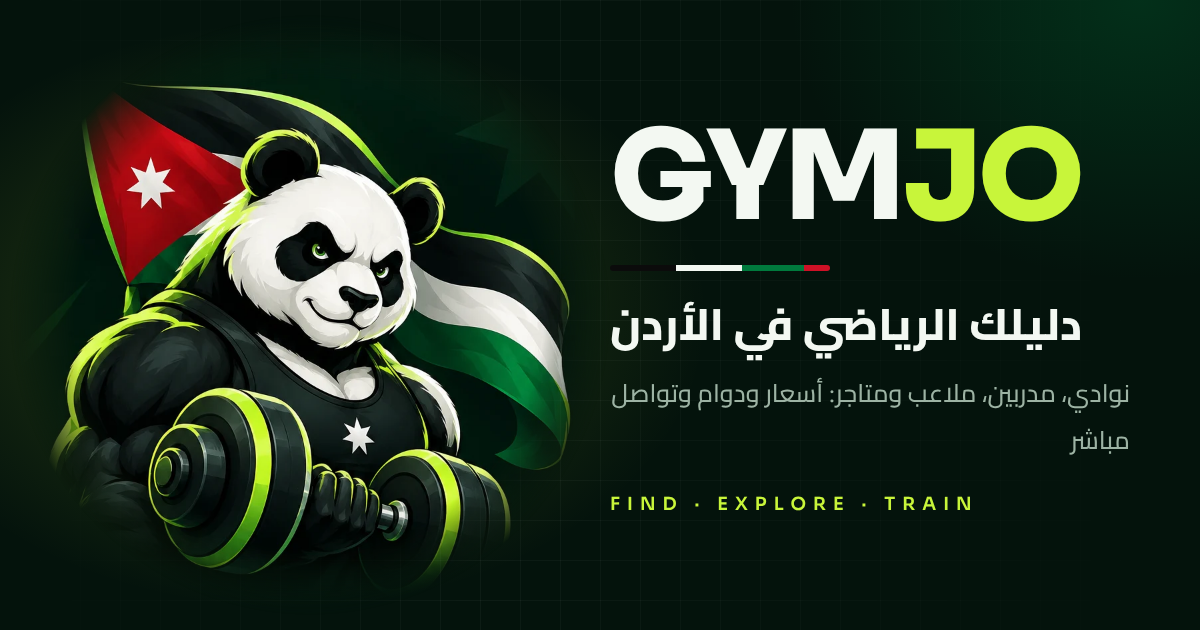
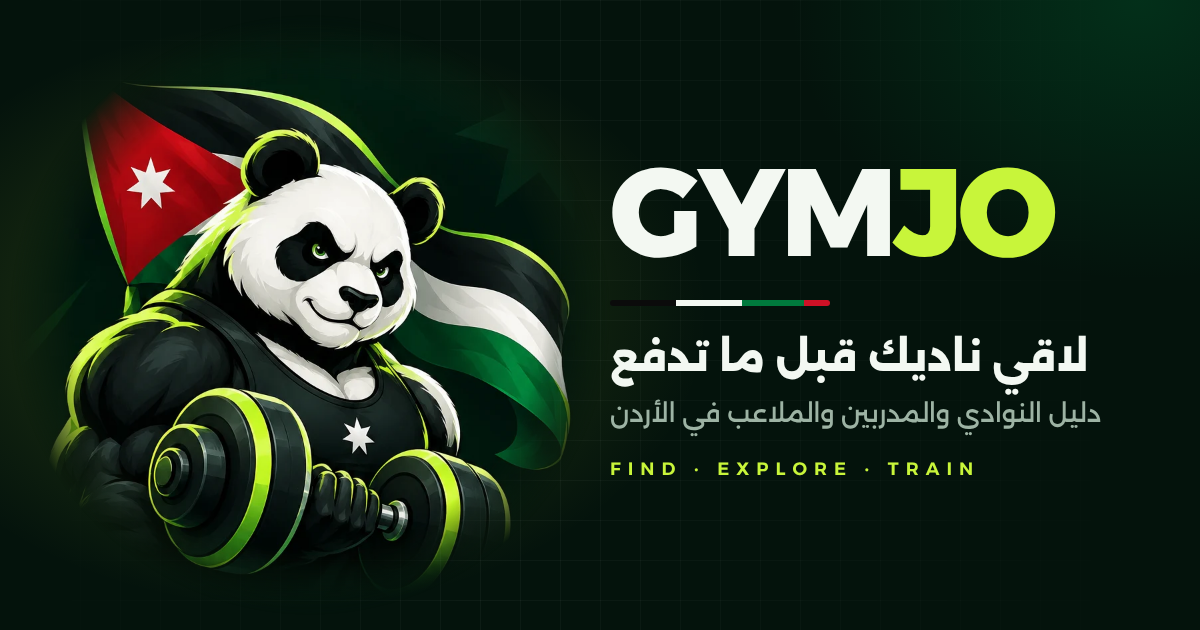
feat(design): GYMJO v2 — new home hero, navigation and type system
- Hero: the panda as the single loud element, one headline, the search as
  the page's one job, and quick links to the most used directories.
- Navigation: one quiet desktop row with the main destinations; a phone
  tab bar (home, directory, search, favourites, sections) replaces the
  17-pill cloud. Everything else stays reachable from «كل الأقسام».
- Type: Alexandria for headlines and the wordmark, Cairo for reading text.
- Removed all-caps English eyebrow labels and the old brand name everywhere.
- Share image regenerated. Includes the notifications work (merged).

Claude-Session: https://claude.ai/code/session_01CDM4rmzXy9MrwPcZ1eZi8a

diff --git a/src/app/page.tsx b/src/app/page.tsx
@@ -74,75 +74,49 @@ export default async function Home() {
   const sponsored = ads.filter((a) => a.placement === "sponsored").slice(0, 3);
   return (
     <div className="mx-auto max-w-7xl px-4 sm:px-6">
-      <section className="relative isolate -mx-4 overflow-hidden rounded-b-[2rem] border-b border-white/10 bg-[radial-gradient(ellipse_at_15%_10%,rgba(200,245,58,.15),transparent_38%),radial-gradient(ellipse_at_85%_80%,rgba(159,212,31,.09),transparent_34%)] px-4 pb-10 pt-8 sm:rounded-b-[2.75rem] sm:px-8 sm:pb-16 sm:pt-12 lg:pb-20">
-        <div aria-hidden className="pointer-events-none absolute inset-0 -z-10 opacity-40 [background-image:linear-gradient(rgba(255,255,255,.035)_1px,transparent_1px),linear-gradient(90deg,rgba(255,255,255,.035)_1px,transparent_1px)] [background-size:36px_36px] [mask-image:linear-gradient(to_bottom,black,transparent_85%)]" />
-        {/* Brand mascot as a quiet watermark behind the hero. */}
-        <div aria-hidden className="pointer-events-none absolute -top-10 end-[-5rem] -z-10 w-64 opacity-20 [mask-image:radial-gradient(closest-side,black_50%,transparent)] sm:w-80 sm:opacity-30 lg:hidden">
-          {/* eslint-disable-next-line @next/next/no-img-element */}
-          <img src="/brand/panda.webp" alt="" width={900} height={900} className="h-auto w-full" />
-        </div>
-        <div className="mx-auto grid max-w-7xl items-center gap-10 lg:grid-cols-[1.1fr_.9fr] lg:gap-14">
-          <div className="text-right">
-            <div className="mb-5 inline-flex items-center gap-2 rounded-full border border-[#c8f53a]/20 bg-[#c8f53a]/10 px-3 py-1.5 text-xs font-bold text-[#c8f53a] sm:text-sm"><span className="size-2 animate-pulse rounded-full bg-emerald-400 motion-reduce:animate-none" /> دليلك الرياضي من عمّان لكل الأردن</div>
-            <h1 className="max-w-3xl text-4xl font-black leading-[1.25] tracking-tight sm:text-5xl lg:text-6xl">
-              {cfg.heroTitle}<br /><span className="bg-gradient-to-l from-[#e9ffa3] via-[#c8f53a] to-[#9fd41f] bg-clip-text text-transparent">{cfg.heroAccent}</span>
-            </h1>
-            <p className="mt-5 max-w-2xl text-base leading-8 text-muted sm:text-lg">{cfg.heroSubtitle}</p>
-            <form action="/search" className="mt-8 grid gap-2 rounded-2xl border border-white/10 bg-surface/90 p-2 shadow-2xl shadow-black/20 backdrop-blur sm:grid-cols-[1fr_auto]">
-              <label className="flex min-w-0 items-center gap-3 rounded-xl bg-background/70 px-4">
-                <span aria-hidden className="text-xl text-[#c8f53a]">⌕</span>
-                <input name="q" aria-label="بحث" placeholder="شو حاب تتمرّن؟ نادي، مدرب، ملاعب..." className="min-w-0 flex-1 bg-transparent py-4 outline-none placeholder:text-muted/80 focus:ring-0" />
+      <section className="relative isolate -mx-4 overflow-hidden border-b border-white/10 px-4 pb-10 pt-2 sm:px-8 sm:pb-14 sm:pt-10">
+        <div className="mx-auto grid max-w-7xl items-center gap-6 lg:grid-cols-[1.15fr_.85fr] lg:gap-10">
+          {/* The mascot: the one loud element on the page. */}
+          <div aria-hidden className="relative mx-auto -mb-2 w-44 sm:w-72 lg:order-2 lg:mb-0 lg:w-full lg:max-w-md">
+            {/* eslint-disable-next-line @next/next/no-img-element */}
+            <img src="/brand/panda.webp" alt="" width={900} height={900} fetchPriority="high" className="relative h-auto w-full [mask-image:radial-gradient(closest-side,black_80%,transparent)]" />
+          </div>
+          <div className="lg:order-1">
+            <h1 className="font-display text-[2.6rem] font-black leading-[1.15] tracking-tight sm:text-6xl lg:text-7xl">لاقي ناديك<br />قبل ما تدفع</h1>
+            <p className="mt-4 max-w-xl text-base leading-8 text-muted sm:text-lg">الأسعار والدوام والصور لنوادي ومدربين وملاعب الأردن، وزر واتساب بيوصلك لصاحب المكان مباشرة.</p>
+            <form action="/search" className="mt-6 flex flex-col gap-2 rounded-3xl bg-surface p-2 ring-1 ring-white/10 sm:flex-row sm:items-center sm:rounded-full sm:ps-6">
+              <label className="flex min-w-0 flex-1 items-center gap-3 px-3 sm:px-0">
+                <svg aria-hidden viewBox="0 0 24 24" className="size-5 shrink-0 text-accent" fill="none" stroke="currentColor" strokeWidth="2.2" strokeLinecap="round"><circle cx="11" cy="11" r="7" /><path d="m20 20-3.5-3.5" /></svg>
+                <input name="q" aria-label="بحث" placeholder="اسم نادي، منطقة، أو رياضة" className="min-w-0 flex-1 bg-transparent py-3.5 outline-none placeholder:text-muted/80 focus:ring-0" />
               </label>
-              <div className="grid grid-cols-[1fr_auto] gap-2">
-                <select name="city" aria-label="المدينة" defaultValue="" className="min-w-0 rounded-xl bg-background px-3 py-3 text-sm ring-1 ring-white/10 focus:ring-[#c8f53a]">
+              <div className="flex gap-2">
+                <select name="city" aria-label="المدينة" defaultValue="" className="min-h-12 min-w-0 flex-1 rounded-full bg-background px-4 text-sm ring-1 ring-white/10 focus:ring-accent sm:flex-none">
                   <option value="">كل المدن</option>
                   {cities.map((c) => <option key={c.city} value={c.city}>{c.city}</option>)}
                 </select>
-                <button className="rounded-xl bg-[#c8f53a] text-[#0b1a08] px-6 py-3 font-extrabold shadow-lg shadow-black/30 transition hover:-translate-y-0.5 hover:brightness-110">اكتشف الآن <span aria-hidden>←</span></button>
+                <button className="min-h-12 rounded-full bg-accent px-7 font-display font-extrabold text-accent-foreground transition hover:brightness-110 focus-visible:outline-none focus-visible:ring-2 focus-visible:ring-accent focus-visible:ring-offset-2 focus-visible:ring-offset-background">دوّر</button>
               </div>
             </form>
-            <div className="mt-4 flex flex-wrap items-center gap-x-4 gap-y-2 text-xs text-muted sm:text-sm"><span className="inline-flex items-center gap-2"><span className="text-emerald-300">✓</span> قارن قبل ما تشترك</span><span className="inline-flex items-center gap-2"><span className="text-emerald-300">✓</span> معلومات محلية</span><span className="inline-flex items-center gap-2"><span className="text-emerald-300">✓</span> تواصل مباشر</span></div>
-          </div>
-          <div className="relative mx-auto w-full max-w-lg lg:me-0">
-            <div aria-hidden className="absolute inset-8 rounded-full bg-[#c8f53a]/10 blur-3xl" />
-            <div className="relative overflow-hidden rounded-[2rem] border border-white/10 bg-gradient-to-br from-[#252c20] via-[#1b2119] to-[#10130f] p-4 shadow-2xl shadow-black/40 sm:p-6">
-              <div className="flex items-center justify-between border-b border-white/10 pb-4">
-                <div><p className="text-xs text-muted">رحلتك الرياضية تبدأ هون</p><p className="mt-1 text-lg font-extrabold">اختار أسلوبك</p></div>
-                <span className="rounded-2xl border border-[#c8f53a]/20 bg-[#c8f53a]/10 p-3 text-2xl">✦</span>
-              </div>
-              <div className="mt-4 grid grid-cols-2 gap-3">
-                {TYPE_TILES.slice(0, 4).map((tile) => (
-                  <Link key={tile.href} href={tile.href} className="group rounded-2xl border border-white/10 bg-white/[0.04] p-4 transition hover:-translate-y-1 hover:border-[#c8f53a]/40 hover:bg-[#c8f53a]/10">
-                    <span className="mb-5 flex size-11 items-center justify-center rounded-xl bg-[#c8f53a]/10 text-2xl">{tile.icon}</span>
-                    <span className="block font-extrabold">{tile.label}</span>
-                    <span className="mt-1 block text-xs text-muted">{tile.description}</span>
-                  </Link>
-                ))}
-              </div>
-              <Link href="/search" className="mt-3 flex items-center justify-between rounded-2xl border border-[#c8f53a]/20 bg-[#c8f53a]/10 px-4 py-3 text-sm font-bold text-[#c8f53a] transition hover:bg-[#c8f53a]/15"><span>استكشف كل الأنشطة الرياضية</span><span aria-hidden>←</span></Link>
-              <div className="mt-4 flex items-center gap-3 rounded-2xl bg-black/20 p-3"><span className="flex size-10 shrink-0 items-center justify-center rounded-full bg-emerald-400/15 text-lg">⌖</span><div><p className="text-sm font-bold">منطقتك، ميزانيتك، هدفك</p><p className="mt-0.5 text-xs text-muted">اكتشف خيارات أقرب لإلك بدل البحث العشوائي</p></div></div>
-            </div>
-            <div aria-hidden className="pointer-events-none absolute -top-24 end-[-3rem] hidden w-44 lg:block xl:w-52">
-              <div className="brand-glow absolute inset-0 scale-125" />
-              {/* eslint-disable-next-line @next/next/no-img-element */}
-              <img src="/brand/panda.webp" alt="" width={900} height={900} className="relative h-auto w-full [mask-image:radial-gradient(closest-side,black_72%,transparent)]" />
-            </div>
-            <div className="absolute -left-2 top-10 hidden -translate-x-1/4 rounded-2xl border border-white/10 bg-surface/95 px-4 py-3 shadow-xl backdrop-blur sm:block lg:top-auto lg:bottom-10"><p className="text-xs text-muted">قرار أذكى</p><p className="mt-1 text-sm font-extrabold">قارن. اختار. انطلق.</p></div>
+            <ul className="mt-4 flex flex-wrap gap-2 text-sm">
+              {[["/directory/gym", "نوادي"], ["/directory/independent_coach", "مدربين"], ["/directory/sports_facility", "ملاعب ومسابح"], ["/pink", "للنساء"], ["/now", "فاتح هسا"]].map(([href, label]) => (
+                <li key={href}><Link href={href} className="inline-flex min-h-10 items-center rounded-full px-4 font-bold text-muted ring-1 ring-white/10 transition-colors hover:text-foreground hover:ring-accent">{label}</Link></li>
+              ))}
+            </ul>
           </div>
         </div>
         {show.tiles && (
-          <section className="mx-auto mt-10 max-w-7xl border-t border-white/10 pt-7 sm:mt-14">
+          <section className="mx-auto mt-10 max-w-7xl sm:mt-14">
             <div className="mb-5 flex flex-wrap items-end justify-between gap-3">
-              <div><p className="text-xs font-extrabold tracking-wider text-accent">GYMJO DIRECTORY</p><h2 className="mt-1 text-xl font-black sm:text-2xl">دليل الأنشطة الرياضية</h2><p className="mt-1 text-sm text-muted">اختار نوع النشاط اللي بتدور عليه.</p></div>
-              <Link href="/directory" className="text-sm font-bold text-accent">كل الدليل ←</Link>
+              <div><h2 className="mt-1 text-xl font-black sm:text-2xl">دليل الأنشطة الرياضية</h2><p className="mt-1 text-sm text-muted">اختار نوع النشاط اللي بتدور عليه.</p></div>
+              <Link href="/directory" className="text-sm font-bold text-accent">كل الدليل</Link>
             </div>
             <div className="grid grid-cols-2 gap-3 sm:grid-cols-4 lg:grid-cols-8">
               {TYPE_TILES.map((tile) => (
-                <Link key={tile.href} href={tile.href} className="group flex min-h-32 flex-col rounded-2xl border border-white/10 bg-surface/80 p-3 transition hover:-translate-y-1 hover:border-accent/50 hover:bg-accent/5 sm:p-4">
+                <Link key={tile.href} href={tile.href} className="flex flex-col rounded-2xl bg-surface p-3 ring-1 ring-white/10 transition-colors hover:ring-accent sm:p-4">
                   <span className="flex size-10 items-center justify-center rounded-xl bg-accent/10 text-xl">{tile.icon}</span>
                   <span className="mt-3 font-extrabold">{tile.label}</span>
                   <span className="mt-1 text-xs leading-5 text-muted">{tile.description}</span>
-                  <span className="mt-auto pt-3 text-xs font-bold text-accent">استكشف ←</span>
+                  
                 </Link>
               ))}
             </div>
@@ -152,7 +126,7 @@ export default async function Home() {
 
       <section className="py-12 sm:py-16">
         <div className="mb-6 flex flex-wrap items-end justify-between gap-3">
-          <div><p className="text-xs font-extrabold tracking-wider text-accent">MORE THAN A DIRECTORY</p><h2 className="mt-1 text-2xl font-black sm:text-3xl">كل ميزات GYMJO قدامك</h2><p className="mt-2 max-w-2xl text-sm leading-6 text-muted">مش بس دليل نوادي؛ أدوات ومحتوى وعروض تساعدك تتمرّن وتتابع تقدمك وتكتشف أشياء جديدة — كل قسم ظاهر هون بدون قوائم مخفية.</p></div>
+          <div><h2 className="mt-1 text-2xl font-black sm:text-3xl">كل ميزات GYMJO قدامك</h2><p className="mt-2 max-w-2xl text-sm leading-6 text-muted">مش بس دليل نوادي؛ أدوات ومحتوى وعروض تساعدك تتمرّن وتتابع تقدمك وتكتشف أشياء جديدة — كل قسم ظاهر هون بدون قوائم مخفية.</p></div>
           <span className="rounded-full border border-white/10 bg-surface px-3 py-1.5 text-xs font-bold text-muted">{FEATURE_TILES.length} ميزة</span>
         </div>
         <div className="grid grid-cols-2 gap-3 sm:grid-cols-3 lg:grid-cols-4">
@@ -172,7 +146,7 @@ export default async function Home() {
       {exercises.length > 0 && (
         <section className="mb-12">
           <div className="mb-4 flex flex-wrap items-end justify-between gap-3">
-            <div><p className="text-xs font-extrabold tracking-wider text-accent">LEARN & TRAIN</p><h2 className="mt-1 text-2xl font-black">جرّب مكتبة التمارين</h2><p className="mt-1 text-sm text-muted">شوف أسماء التمارين والعضلات المستهدفة قبل ما تدخل للقسم.</p></div>
+            <div><h2 className="mt-1 text-2xl font-black">جرّب مكتبة التمارين</h2><p className="mt-1 text-sm text-muted">شوف أسماء التمارين والعضلات المستهدفة قبل ما تدخل للقسم.</p></div>
             <Link href="/exercises" className="text-sm font-bold text-accent">كل التمارين ←</Link>
           </div>
           <div className="grid grid-cols-2 gap-3 sm:grid-cols-4">
@@ -190,7 +164,7 @@ export default async function Home() {
       {codes.length > 0 && (
         <section className="mb-12 rounded-3xl border border-[#c8f53a]/20 bg-gradient-to-l from-[#c8f53a]/[0.08] to-surface p-5 sm:p-7">
           <div className="mb-5 flex flex-wrap items-end justify-between gap-3">
-            <div><p className="text-xs font-extrabold tracking-wider text-accent">GYMJO EXCLUSIVE</p><h2 className="mt-1 text-2xl font-black">وفّر مع أكواد GYMJO</h2><p className="mt-1 text-sm text-muted">خصومات حقيقية من أنشطة ومتاجر مشاركة — اكشف الكود واستخدمه مباشرة.</p></div>
+            <div><h2 className="mt-1 text-2xl font-black">وفّر مع أكواد GYMJO</h2><p className="mt-1 text-sm text-muted">خصومات حقيقية من أنشطة ومتاجر مشاركة — اكشف الكود واستخدمه مباشرة.</p></div>
             <Link href="/deals" className="text-sm font-bold text-accent">كل أكواد الخصم ←</Link>
           </div>
           <div className="grid gap-3 sm:grid-cols-3">

diff --git a/src/components/SiteTabs.tsx b/src/components/SiteTabs.tsx
@@ -4,16 +4,16 @@ import { usePathname } from "next/navigation";
 
 export type NavLink = { href: string; label: string; cls?: string };
 
-/** Accessible, touch-friendly section navigation with a clear current-page state. */
-export function SiteTabs({ links }: { links: NavLink[] }) {
+function useIsOn() {
   const path = usePathname();
-  const on = (h: string) => path === h || (h !== "/" && path.startsWith(h + "/"));
+  return (h: string) => (h === "/" ? path === "/" : path === h || path.startsWith(h + "/"));
+}
 
+/** Desktop: one quiet row of the main destinations. Everything else lives in «كل الأقسام». */
+export function SiteTabs({ links }: { links: NavLink[] }) {
+  const on = useIsOn();
   return (
-    <nav
-      aria-label="أقسام الموقع"
-      className="mx-auto flex max-w-7xl snap-x snap-mandatory gap-2 overflow-x-auto px-3 pb-3 text-sm [scrollbar-width:none] [-webkit-overflow-scrolling:touch] [&::-webkit-scrollbar]:hidden sm:px-4 md:flex-wrap md:overflow-visible md:snap-none"
-    >
+    <nav aria-label="أقسام الموقع" className="hidden items-center gap-1 text-sm md:flex">
       {links.map((l) => {
         const active = on(l.href);
         return (
@@ -22,12 +22,9 @@ export function SiteTabs({ links }: { links: NavLink[] }) {
             href={l.href}
             aria-current={active ? "page" : undefined}
             className={[
-              "min-h-11 shrink-0 snap-start whitespace-nowrap rounded-full px-4 py-2.5 font-medium",
-              "inline-flex items-center justify-center ring-1 transition-colors duration-200 motion-reduce:transition-none",
-              "focus-visible:outline-none focus-visible:ring-2 focus-visible:ring-accent focus-visible:ring-offset-2 focus-visible:ring-offset-background",
-              active
-                ? "bg-accent font-bold text-accent-foreground ring-accent shadow-sm shadow-black/10"
-                : "bg-surface text-muted ring-white/10 hover:text-foreground hover:ring-accent active:scale-[0.98] motion-reduce:active:scale-100",
+              "inline-flex min-h-10 items-center whitespace-nowrap rounded-full px-3.5 font-bold transition-colors motion-reduce:transition-none",
+              "focus-visible:outline-none focus-visible:ring-2 focus-visible:ring-accent",
+              active ? "bg-accent/15 text-accent" : "text-muted hover:bg-white/5 hover:text-foreground",
               l.cls ?? "",
             ].join(" ")}
           >
@@ -35,6 +32,47 @@ export function SiteTabs({ links }: { links: NavLink[] }) {
           </Link>
         );
       })}
+    </nav>
+  );
+}
+
+const ICONS: Record<string, React.ReactNode> = {
+  home: <path d="M3 11.5 12 4l9 7.5M5.5 10v9.5h13V10" />,
+  list: <path d="M4 6h16M4 12h16M4 18h10" />,
+  search: <><circle cx="11" cy="11" r="6.5" /><path d="m20 20-4-4" /></>,
+  heart: <path d="M12 20s-7.5-4.6-7.5-10.2A4.3 4.3 0 0 1 12 7a4.3 4.3 0 0 1 7.5 2.8C19.500 15.4 12 20 12 20Z" />,
+  grid: <><rect x="4" y="4" width="6.5" height="6.5" rx="1.5" /><rect x="13.5" y="4" width="6.5" height="6.5" rx="1.5" /><rect x="4" y="13.5" width="6.5" height="6.5" rx="1.5" /><rect x="13.5" y="13.5" width="6.5" height="6.5" rx="1.5" /></>,
+};
+const BAR = [
+  { href: "/", label: "الرئيسية", icon: "home" },
+  { href: "/directory", label: "الدليل", icon: "list" },
+  { href: "/search", label: "بحث", icon: "search" },
+  { href: "/favorites", label: "المفضلة", icon: "heart" },
+  { href: "/sections", label: "الأقسام", icon: "grid" },
+];
+
+/** Phones: a thumb-reach tab bar with the five places people go most. */
+export function BottomBar() {
+  const on = useIsOn();
+  return (
+    <nav aria-label="التنقل السريع" className="fixed inset-x-0 bottom-0 z-40 border-t border-white/10 bg-background/95 pb-[env(safe-area-inset-bottom)] backdrop-blur-xl print:hidden md:hidden">
+      <ul className="mx-auto grid max-w-md grid-cols-5">
+        {BAR.map((b) => {
+          const active = on(b.href);
+          const main = b.icon === "search";
+          return (
+            <li key={b.href}>
+              <Link href={b.href} aria-current={active ? "page" : undefined} className={`flex min-h-16 flex-col items-center justify-center gap-1 text-[11px] font-bold transition-colors focus-visible:outline-none focus-visible:ring-2 focus-visible:ring-inset focus-visible:ring-accent ${active ? "text-accent" : "text-muted"}`}>
+                <span className={main ? "flex size-10 items-center justify-center rounded-full bg-accent text-accent-foreground" : ""}>
+                  <svg aria-hidden viewBox="0 0 24 24" className={main ? "size-5" : "size-6"} fill="none" stroke="currentColor" strokeWidth={active || main ? 2.2 : 1.8} strokeLinecap="round" strokeLinejoin="round">{ICONS[b.icon]}</svg>
+                </span>
+                {!main && b.label}
+                {main && <span className="sr-only">{b.label}</span>}
+              </Link>
+            </li>
+          );
+        })}
+      </ul>
     </nav>
   );
 }

diff --git a/src/components/SiteHeader.tsx b/src/components/SiteHeader.tsx
@@ -6,12 +6,13 @@ import { SiteTabs, type NavLink } from "@/components/SiteTabs";
 import { NAV_CATALOG } from "@/lib/site-settings";
 
 export async function SiteHeader() {
-  // Keep every main service directly visible in the navigation; /sections remains the full directory.
-  const tabs: NavLink[] = [...NAV_CATALOG.map((n) => ({ ...n })), { href: "/sections", label: "☰ كل الأقسام" }];
+  // The header carries the destinations people use most; «كل الأقسام» holds the rest.
+  const MAIN = ["/search", "/pink", "/now", "/deals", "/exercises"];
+  const tabs: NavLink[] = [{ href: "/directory", label: "الدليل" }, ...NAV_CATALOG.filter((n) => MAIN.includes(n.href)).map((n) => ({ href: n.href, label: n.label.replace(/^[^\p{L}]+/u, "").trim() })), { href: "/sections", label: "كل الأقسام" }];
 
   return (
-    <header className="sticky top-0 z-40 border-b border-white/10 bg-background/90 shadow-lg shadow-black/5 backdrop-blur-xl print:hidden">
-      <div className="mx-auto flex max-w-7xl flex-wrap items-center justify-between gap-3 px-3 py-3 sm:px-5 sm:py-3.5">
+    <header className="sticky top-0 z-40 border-b border-white/10 bg-background/90 backdrop-blur-xl print:hidden">
+      <div className="mx-auto flex max-w-7xl items-center justify-between gap-3 px-3 py-2.5 sm:px-5">
         <Link
           href="/"
           aria-label="GYMJO — الصفحة الرئيسية"
@@ -21,16 +22,15 @@ export async function SiteHeader() {
           <img src="/brand/mark-96.png" alt="" width={44} height={44} className="size-10 shrink-0 rounded-2xl object-cover ring-1 ring-accent/40 shadow-lg shadow-black/40 transition-transform duration-300 group-hover:scale-105 motion-reduce:transition-none motion-reduce:transform-none sm:size-11" />
           <span className="flex min-w-0 flex-col items-start gap-1">
             <span className="wordmark text-xl sm:text-2xl">GYM<b>JO</b></span>
-            <span className="hidden text-[11px] font-semibold leading-none text-muted sm:block">دليلك الرياضي في الأردن</span>
           </span>
         </Link>
+        <SiteTabs links={tabs} />
         <div className="flex shrink-0 items-center gap-1.5 text-sm sm:gap-2">
-          <ThemeToggle />
+          <span className="hidden sm:inline-flex"><ThemeToggle /></span>
           <HeaderAuth />
           <InstallButton />
         </div>
       </div>
-      <SiteTabs links={tabs} />
     </header>
   );
 }

diff --git a/src/app/globals.css b/src/app/globals.css
@@ -24,8 +24,8 @@
   --color-muted: var(--muted);
   --color-accent: var(--accent);
   --color-accent-foreground: var(--accent-foreground);
-  --font-sans: "Sora Variable", "Cairo Variable", system-ui, sans-serif;
-  --font-display: "Sora Variable", "Cairo Variable", system-ui, sans-serif;
+  --font-sans: "Cairo Variable", "Alexandria Variable", system-ui, sans-serif;
+  --font-display: "Alexandria Variable", system-ui, sans-serif;
 }
 
 html { color-scheme: dark; scroll-behavior: smooth; }
@@ -67,12 +67,13 @@ html[data-theme="light"] .text-emerald-300, html[data-theme="light"] .text-emera
 html[data-theme="light"] .text-amber-300, html[data-theme="light"] .text-amber-200 { color: #93370d !important; }
 
 html, body { overflow-x: clip; }
-/* Latin letters and numerals in Sora, Arabic in Cairo: one voice in both scripts. */
-body { background: var(--background); color: var(--foreground); font-family: "Sora Variable", "Cairo Variable", system-ui, sans-serif; font-feature-settings: "ss01"; }
+body { background: var(--background); color: var(--foreground); font-family: "Cairo Variable", "Alexandria Variable", system-ui, sans-serif; }
+/* Headlines in Alexandria (Arabic and Latin), reading text in Cairo. */
+h1, h2 { font-family: "Alexandria Variable", "Cairo Variable", system-ui, sans-serif; letter-spacing: -0.01em; }
 h1, h2, h3 { text-wrap: balance; }
 
 /* Brand pieces */
-.wordmark { font-family: "Sora Variable", system-ui, sans-serif; font-weight: 800; letter-spacing: -0.02em; line-height: 1; direction: ltr; unicode-bidi: isolate; }
+.wordmark { font-family: "Alexandria Variable", system-ui, sans-serif; font-weight: 800; letter-spacing: -0.02em; line-height: 1; direction: ltr; unicode-bidi: isolate; }
 .wordmark b { font-weight: 800; color: var(--brand-lime); }
 /* The flag stripe: a thin Jordan-flag rule used once per surface as the brand signature. */
 .flag-rule { height: 3px; border-radius: 3px; background: linear-gradient(90deg, #0b0b0b 0 30%, #f3f8f2 30% 60%, var(--flag-green) 60% 88%, var(--flag-red) 88% 100%); }
@@ -124,3 +125,5 @@ h1, h2, h3 { text-wrap: balance; }
   .printing-one [data-print-active] * { color: #000 !important; }
   .printing-one .no-print { display: none !important; }
 }
+/* Room for the phone tab bar. */
+@media (max-width: 767px) { body { padding-bottom: calc(4.25rem + env(safe-area-inset-bottom)); } }

diff --git a/src/app/account/page.tsx b/src/app/account/page.tsx
@@ -47,7 +47,6 @@ export default async function Account() {
     <main className="mx-auto max-w-5xl px-4 py-7 sm:px-6 sm:py-10">
       <section className="relative isolate overflow-hidden rounded-[2rem] border border-white/10 bg-[radial-gradient(ellipse_at_15%_10%,rgba(200,245,58,.18),transparent_45%),linear-gradient(135deg,#20291b,#11160f)] p-5 shadow-2xl shadow-black/20 sm:p-8">
         <div aria-hidden className="absolute -end-12 -top-16 -z-10 size-56 rounded-full border-[32px] border-[#c8f53a]/5" />
-        <p className="text-xs font-black tracking-[.2em] text-[#c8f53a]">GYMJO MEMBER SPACE</p>
         <div className="mt-5 flex flex-col gap-5 sm:flex-row sm:items-center">
           <div className="flex size-20 shrink-0 items-center justify-center rounded-[1.7rem] border border-[#c8f53a]/30 bg-[#c8f53a]/15 text-4xl font-black text-[#eaff8c] shadow-lg shadow-black/20">{initial}</div>
           <div className="min-w-0 flex-1">
@@ -73,7 +72,7 @@ export default async function Account() {
 
       <section className="mt-9">
         <div className="mb-4 flex items-end justify-between gap-3">
-          <div><p className="text-xs font-black tracking-widest text-accent">YOUR GYMJO</p><h2 className="mt-1 text-2xl font-black">مساحتك الرياضية</h2><p className="mt-1 text-sm text-muted">كل ما تحتاجه لمتابعة رحلتك الرياضية بمكان واحد.</p></div>
+          <div><h2 className="mt-1 text-2xl font-black">مساحتك الرياضية</h2><p className="mt-1 text-sm text-muted">كل ما تحتاجه لمتابعة رحلتك الرياضية بمكان واحد.</p></div>
           <Link href="/sections" className="text-sm font-bold text-accent">كل الأقسام ←</Link>
         </div>
         <div className="grid gap-3 sm:grid-cols-2 lg:grid-cols-3">

diff --git a/src/components/VideoCard.tsx b/src/components/VideoCard.tsx
@@ -58,7 +58,7 @@ export function VideoCard({ v, showOrg = true }: { v: VideoItem; showOrg?: boole
       {v.title_ar && <p className="text-sm font-semibold">{v.title_ar}</p>}
       {showOrg && v.org && <p className="text-xs text-muted"><a href={`/g/${v.org.slug}`} className="rounded-sm text-accent hover:underline focus-visible:outline-none focus-visible:ring-2 focus-visible:ring-accent">{v.org.name_ar}</a> · {v.org.city}</p>}
       <div className="flex flex-wrap items-center gap-2">
-        {wa && v.org && <TrackedLink orgId={v.org.id} event="whatsapp_click" external href={`https://wa.me/${wa}?text=${encodeURIComponent("مرحبا، شفت فيديو لكم على Jordan Gym Reviews")}`} className="inline-flex min-h-11 items-center rounded-lg bg-green-600 px-3 py-2 text-xs font-bold text-white focus-visible:outline-none focus-visible:ring-2 focus-visible:ring-accent">واتساب</TrackedLink>}
+        {wa && v.org && <TrackedLink orgId={v.org.id} event="whatsapp_click" external href={`https://wa.me/${wa}?text=${encodeURIComponent("مرحبا، شفت فيديو لكم على GYMJO")}`} className="inline-flex min-h-11 items-center rounded-lg bg-green-600 px-3 py-2 text-xs font-bold text-white focus-visible:outline-none focus-visible:ring-2 focus-visible:ring-accent">واتساب</TrackedLink>}
         <a href={v.url} target="_blank" rel="noopener noreferrer" className="inline-flex min-h-11 items-center rounded-lg bg-white/10 px-3 py-2 text-xs hover:bg-white/20 focus-visible:outline-none focus-visible:ring-2 focus-visible:ring-accent">افتح الفيديو ↗</a>
         <Report id={v.id} />
       </div>

diff --git a/src/components/QuranAudio.tsx b/src/components/QuranAudio.tsx
@@ -132,7 +132,7 @@ export function QuranAudioProvider({ children }: { children: ReactNode }) {
     const a = s.ayahs[s.idx];
     if (!a) return;
     const rec = RECITERS.find((r) => r.id === s.reciter)?.name ?? "";
-    navigator.mediaSession.metadata = new MediaMetadata({ title: `${nameIn(surahsRef.current, s.surah)} — آية ${a.numberInSurah}`, artist: rec, album: "Jordan Gym Reviews — روح وجسد", artwork: [{ src: "/logo-mark.png", sizes: "512x512", type: "image/png" }] });
+    navigator.mediaSession.metadata = new MediaMetadata({ title: `${nameIn(surahsRef.current, s.surah)} — آية ${a.numberInSurah}`, artist: rec, album: "GYMJO — روح وجسد", artwork: [{ src: "/logo-mark.png", sizes: "512x512", type: "image/png" }] });
   };
 
   const playAt = (i: number) => {
@@ -241,7 +241,7 @@ export function QuranMiniBar() {
   return (
     <>
       <div className="h-20 print:hidden" aria-hidden />
-      <div className="fixed inset-x-0 bottom-0 z-50 border-t border-white/10 bg-surface/95 px-4 py-2 backdrop-blur print:hidden">
+      <div className="fixed inset-x-0 bottom-[calc(4rem+env(safe-area-inset-bottom))] z-30 border-t md:bottom-0 md:z-50 border-white/10 bg-surface/95 px-4 py-2 backdrop-blur print:hidden">
         <div className="mx-auto flex max-w-2xl items-center gap-3">
           <Link href="/rooh-w-jasad" className="min-w-0 flex-1 text-sm">
             <span className="block truncate font-bold">🎧 {nameOf(curSurah)}{a ? ` — آية ${ar(a.numberInSurah)}` : ""}</span>

diff --git a/src/app/sponsors/page.tsx b/src/app/sponsors/page.tsx
@@ -6,7 +6,7 @@ import { submitSponsorLead } from "./actions";
 
 export const revalidate = 600;
 export const metadata: Metadata = {
-  title: "ملف الرعاة — أعلن مع Jordan Gym Reviews",
+  title: "ملف الرعاة — أعلن مع GYMJO",
   description: "وصّل علامتك لمحبي الرياضة في الأردن: أرقام المنصة الحية وأماكن الإعلان والرعاية.",
   alternates: { canonical: "/sponsors" },
 };
@@ -32,7 +32,7 @@ export default async function Sponsors() {
     <div className="mx-auto max-w-3xl space-y-8 px-4 py-8">
       <header>
         <h1 className="text-3xl font-extrabold">🤝 ملف الرعاة</h1>
-        <p className="mt-2 text-muted">Jordan Gym Reviews دليل عربي للأندية والمدربين والملاعب والمتاجر الرياضية بالأردن. جمهورنا ناس بدهم يشتركوا ويشتروا ويتدرّبوا، وإنت بتوصلهم بنفس لحظة القرار.</p>
+        <p className="mt-2 text-muted">GYMJO دليل عربي للأندية والمدربين والملاعب والمتاجر الرياضية بالأردن. جمهورنا ناس بدهم يشتركوا ويشتروا ويتدرّبوا، وإنت بتوصلهم بنفس لحظة القرار.</p>
       </header>
       <section>
         <h2 className="mb-3 text-xl font-bold">أرقام المنصة (حيّة)</h2>

diff --git a/src/app/terms/page.tsx b/src/app/terms/page.tsx
@@ -7,7 +7,7 @@ export default function Terms() {
   return (
     <LegalPage title="شروط الاستخدام" updated="18 تشرين الأول 2026">
       <section><h2>عن المنصة</h2>
-        <p>Jordan Gym Reviews دليل يعرض صفحات للنوادي الرياضية والمدربين المستقلين والمنشآت الرياضية والمتاجر الرياضية وأخصائيي التغذية في الأردن: الأسعار، أوقات الدوام، الصور، الموقع، العروض، وطرق التواصل. المنصة وسيط لعرض المعلومات فقط، وليست طرفاً في أي اتفاق أو دفعة أو اشتراك بين الزائر والنشاط.</p></section>
+        <p>GYMJO دليل يعرض صفحات للنوادي الرياضية والمدربين المستقلين والمنشآت الرياضية والمتاجر الرياضية وأخصائيي التغذية في الأردن: الأسعار، أوقات الدوام، الصور، الموقع، العروض، وطرق التواصل. المنصة وسيط لعرض المعلومات فقط، وليست طرفاً في أي اتفاق أو دفعة أو اشتراك بين الزائر والنشاط.</p></section>
       <section><h2>لزوار الموقع</h2>
         <ul>
           <li>الزيارة وتصفح الصفحات مجانية ولا تحتاج حساب.</li>

diff --git a/src/app/directory/page.tsx b/src/app/directory/page.tsx
@@ -28,7 +28,6 @@ export default async function DirectoryIndex() {
     <main className="mx-auto max-w-7xl px-4 py-6 sm:px-6 sm:py-10">
       <header className="relative isolate overflow-hidden rounded-3xl border border-white/10 bg-[radial-gradient(ellipse_at_10%_0%,rgba(200,245,58,.13),transparent_48%),linear-gradient(135deg,var(--surface),var(--background))] p-5 sm:p-8">
         <div className="relative">
-          <p className="mb-2 text-sm font-bold text-accent">GYMJO DIRECTORY</p>
           <h1 className="text-2xl font-black tracking-tight sm:text-4xl">دليل الرياضة في الأردن</h1>
           <p className="mt-2 max-w-2xl text-sm leading-7 text-muted sm:text-base">كل الخيارات الرياضية بمكان واحد. اختار نوع النشاط، وبعدها مدينتك لتوصل للمكان المناسب إلك.</p>
           <Link href="/search" className="mt-5 inline-flex min-h-11 items-center justify-center gap-2 rounded-xl bg-accent px-5 py-2.5 text-sm font-extrabold text-accent-foreground transition hover:brightness-105 focus-visible:outline-none focus-visible:ring-2 focus-visible:ring-accent focus-visible:ring-offset-2">ابحث بكل الأنشطة <span aria-hidden>←</span></Link>

diff --git a/src/app/market/page.tsx b/src/app/market/page.tsx
@@ -58,7 +58,7 @@ export default async function Market({ searchParams }: PageProps<"/market">) {
                 {l.description_ar && <p className="text-sm text-muted">{l.description_ar}</p>}
                 {o && <p className="text-xs text-muted"><Link href={`/g/${o.slug}`} className="text-accent hover:underline">{o.name_ar}</Link> · {o.city}</p>}
                 <div className="mt-auto flex items-center justify-between gap-2 pt-2">
-                  {wa && <a href={`https://wa.me/${wa}?text=${encodeURIComponent(`مرحبا، شفت إعلانك «${l.title_ar}» بسوق المعدات على Jordan Gym Reviews`)}`} target="_blank" rel="noopener noreferrer" className="rounded-xl bg-green-600 px-4 py-2 text-sm font-bold text-white">واتساب</a>}
+                  {wa && <a href={`https://wa.me/${wa}?text=${encodeURIComponent(`مرحبا، شفت إعلانك «${l.title_ar}» بسوق المعدات على GYMJO`)}`} target="_blank" rel="noopener noreferrer" className="rounded-xl bg-green-600 px-4 py-2 text-sm font-bold text-white">واتساب</a>}
                   <ReportListing id={l.id} />
                 </div>
               </div>

diff --git a/src/components/NutritionCalc.tsx b/src/components/NutritionCalc.tsx
@@ -15,7 +15,7 @@ function Report({ r, sex, goal, f, activity, innerRef }: { r: CalcOk; sex: Sex; 
       <div style={{ display: "flex", alignItems: "center", gap: 14, borderBottom: "3px solid #10b981", paddingBottom: 16 }}>
         {/* eslint-disable-next-line @next/next/no-img-element */}
         <img src="/logo-mark.png" alt="" width={64} height={64} style={{ borderRadius: 32, objectFit: "cover" }} />
-        <div><div style={{ fontSize: 24, fontWeight: 900 }}>Jordan Gym Reviews</div><div style={{ fontSize: 13, color: "#5b6b66" }}>من غير حرمان — تقرير السعرات والماكروز</div></div>
+        <div><div style={{ fontSize: 24, fontWeight: 900 }}>GYMJO</div><div style={{ fontSize: 13, color: "#5b6b66" }}>من غير حرمان — تقرير السعرات والماكروز</div></div>
       </div>
       <div style={{ marginTop: 18, fontSize: 14, color: "#33443f" }}>{sex === "m" ? "ذكر" : "أنثى"} · {f.age} سنة · {f.height} سم · {f.weight} كغ · {act}</div>
       <div style={{ marginTop: 16, background: "#10b981", color: "#04201a", borderRadius: 16, padding: 22, textAlign: "center" }}>
